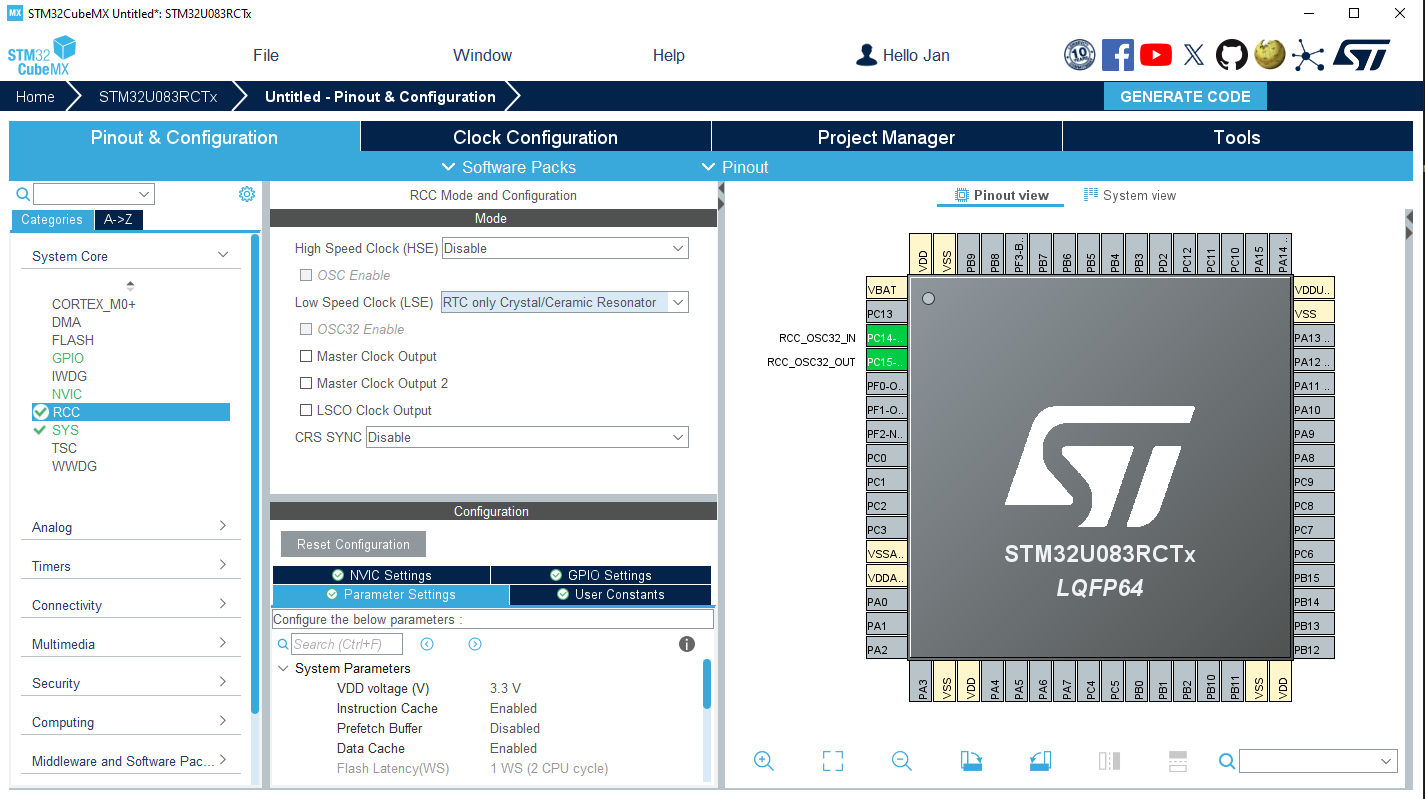
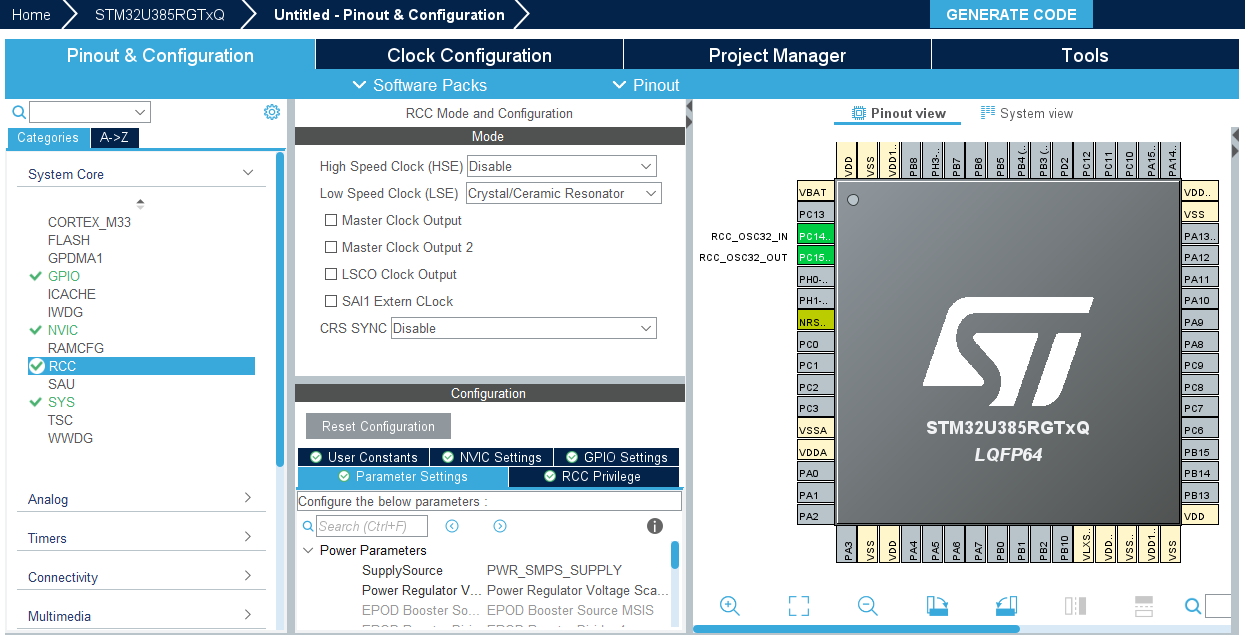
LSE and RTC update

diff --git a/stop3/stop3_intro.md b/stop3/stop3_intro.md
@@ -1,7 +1,7 @@
 # Stop 3 and wake up from RTC
 
-- simple example to understand Stop 3 mode and wake up source from RTC
-- reduce RAM retention to 8kB in SRAM2
+- simple example to understand Stop 3 mode and wake up source from RTC Wakeup timer
+- reduce SRAM2 retention to 8kB in STOP mode
 
 ## Prerequisites
 - Software:
@@ -12,10 +12,10 @@
 - Hardware:
   - 2x **USB-C** cable 
   - **[NUCLEO-U385RG](https://www.st.com/en/evaluation-tools/nucleo-u385rg-q.html)** board 
-  - A-meter or **[STLink-V3PWR](https://www.st.com/en/development-tools/stlink-v3pwr.html)** board 
+  - A-meter or **[STLink-V3PWR](https://www.st.com/en/development-tools/stlink-v3pwr.html)**
 
 - Documentation:
   - STM32U3 **[Reference Manual](https://www.st.com/resource/en/reference_manual/rm0487-stm32u3-series-armbased-32bit-mcus-stmicroelectronics.pdf)** 
   - STM32U3 **[Data Sheet](https://www.st.com/resource/en/datasheet/stm32u385rg.pdf)**
-  - **[Schematic](https://www.st.com/resource/en/schematic_pack/mb1841-u385rgq-e01-schematic.pdf)** NUCLEO-U083RC
+  - **[Schematic](https://www.st.com/resource/en/schematic_pack/mb1841-u385rgq-e01-schematic.pdf)** NUCLEO-U385RG
 

diff --git a/stop3/stop3_cubemx.md b/stop3/stop3_cubemx.md
@@ -27,31 +27,10 @@ To clock RTC and LPUART by external low speed crystal, the LSE must be activated
 
 ![image](./img/RTC.png)
 
-# Low Power UART
-- LPUART1 is connecetd to STlink via PA2/3 pins and acts as Virtual Comport
-
-- Select **LPUART1** instance
-  
-- Configure `Asynchronous mode`
-
-- Remap TX/RX to `PA2/3` *(hold CTRL + left mouse click)*
-
-- `Baudrate` = 9600
-
-- `Enable FIFO mode`
-  - TxFIFO Th. = Empty
-  - RXFIFO Th. = Full
-
-- Enable `USART3 + LPUART1 global interrupt` under NVIC tab
-
-![image](./img/LPUART.png)
-
 # Clock Configuration
-- Change **MSI** to `1 MHz` as `System Clock`
+- Change **MSIS** to `96/2 MHz` as `System Clock`
   
-- Select **LSE** as source for `RTC/LCD` to be able active in down to Stop2 mode
-
-- Select **LSE** as source for `LPUART1`
+- Select **LSE** as source for `RTC` 
 <p> </p>
 
 ![image](./img/clock.png)
@@ -63,5 +42,4 @@ Project is now ready for generation!
 
 - Write project name and `Generate Code`
   
-![image](./img/generate_project.png)
   

diff --git a/spi/spi_intro.md b/spi/spi_intro.md
@@ -19,9 +19,9 @@ perform DMA transfers in Stop 0, Stop 1, and Stop 2 modes. Their interrupts wake
 - Hardware:
   - 2x **USB-C** cable 
   - **[NUCLEO-U385RG](https://www.st.com/en/evaluation-tools/nucleo-u385rg-q.html)** board 
-  - A-meter or **[STLink-V3PWR](https://www.st.com/en/development-tools/stlink-v3pwr.html)** board 
+  - A-meter or **[STLink-V3PWR](https://www.st.com/en/development-tools/stlink-v3pwr.html)**
 
 - Documentation:
   - STM32U3 **[Reference Manual](https://www.st.com/resource/en/reference_manual/rm0487-stm32u3-series-armbased-32bit-mcus-stmicroelectronics.pdf)** 
   - STM32U3 **[Data Sheet](https://www.st.com/resource/en/datasheet/stm32u385rg.pdf)**
-  - **[Schematic](https://www.st.com/resource/en/schematic_pack/mb1841-u385rgq-e01-schematic.pdf)** NUCLEO-U083RC
+  - **[Schematic](https://www.st.com/resource/en/schematic_pack/mb1841-u385rgq-e01-schematic.pdf)** NUCLEO-U385RG

diff --git a/lpuart/lpuart_intro.md b/lpuart/lpuart_intro.md
@@ -24,10 +24,10 @@
 - Hardware:
   - 2x **USB-C** cable 
   - **[NUCLEO-U385RG](https://www.st.com/en/evaluation-tools/nucleo-u385rg-q.html)** board 
-  - A-meter or **[STLink-V3PWR](https://www.st.com/en/development-tools/stlink-v3pwr.html)** board 
+  - A-meter or **[STLink-V3PWR](https://www.st.com/en/development-tools/stlink-v3pwr.html)**
 
 - Documentation:
   - STM32U3 **[Reference Manual](https://www.st.com/resource/en/reference_manual/rm0487-stm32u3-series-armbased-32bit-mcus-stmicroelectronics.pdf)** 
   - STM32U3 **[Data Sheet](https://www.st.com/resource/en/datasheet/stm32u385rg.pdf)**
-  - **[Schematic](https://www.st.com/resource/en/schematic_pack/mb1841-u385rgq-e01-schematic.pdf)** NUCLEO-U083RC
+  - **[Schematic](https://www.st.com/resource/en/schematic_pack/mb1841-u385rgq-e01-schematic.pdf)** NUCLEO-U385RG
 

diff --git a/spi/spi_cubemx.md b/spi/spi_cubemx.md
@@ -92,11 +92,11 @@ To clock RTC and LPUART by external low speed crystal, the LSE must be activated
 DMA Interrupt under **NVIC** instance are enabled by default. It can be kept, however in our example it's not used.
 
 # Clock Configuration
-- Change **MSI** to `1 MHz` as `System Clock`
+- Change **MSIS** to `96/2 MHz` as `System Clock`
   
-- Select **LSE** as source for `RTC/LCD` to be able active in down to Stop2 mode
+- Select **LSE** as source for `RTC` 
 
-- Select **LSE** as source for `LPUART1`
+- Select 3MHz **MSIK/8** as source for `SPI1`
 <p> </p>
 
 ![image](./img/clock.png)

diff --git a/lptim/lptim_intro.md b/lptim/lptim_intro.md
@@ -16,4 +16,4 @@
 - Documentation:
   - STM32U3 **[Reference Manual](https://www.st.com/resource/en/reference_manual/rm0487-stm32u3-series-armbased-32bit-mcus-stmicroelectronics.pdf)** 
   - STM32U3 **[Data Sheet](https://www.st.com/resource/en/datasheet/stm32u385rg.pdf)**
-  - **[Schematic](https://www.st.com/resource/en/schematic_pack/mb1841-u385rgq-e01-schematic.pdf)** NUCLEO-U083RC
+  - **[Schematic](https://www.st.com/resource/en/schematic_pack/mb1841-u385rgq-e01-schematic.pdf)** NUCLEO-U385RG

diff --git a/lpuart/lpuart_cubemx.md b/lpuart/lpuart_cubemx.md
@@ -49,7 +49,7 @@ To clock RTC and LPUART by external low speed crystal, the LSE must be activated
 # Clock Configuration
 - Change **MSIS** to `96/2 MHz` as `System Clock`
   
-- Select **LSE** as source for `RTC/LCD` to be able active in down to Stop2 mode
+- Select **LSE** as source for `RTC` 
 
 - Select 3MHz **MSIK/8** as source for `LPUART1`
 <p> </p>
@@ -63,5 +63,4 @@ Project is now ready for generation!
 
 - Write project name and `Generate Code`
   
-![image](./img/generate_project.png)
   

diff --git a/stop3/stop3_cubeide.md b/stop3/stop3_cubeide.md
@@ -72,6 +72,7 @@ __HAL_PWR_CLEAR_FLAG(PWR_WAKEUP_ALL_FLAG);
 /* Enter STOP 3 mode */
 HAL_PWR_EnterSTOPMode(PWR_LOWPOWERMODE_STOP3, PWR_STOPENTRY_WFI);
 ```
+<p> </p>
 
 ## Debug in STOPx mode
 In case when debug in LP modes is required. Due to fact bus is clocked the internal SysTick must be suspend - 1 ms interrupt would cause exit from Stop mode.

diff --git a/adc/adc_handson_scan.md b/adc/adc_handson_scan.md
@@ -4,10 +4,10 @@ Presentation
 #  Scan ADC
 
 We will create a sequence to convert two channels:
-![image](./img/adc_scan.png)
-<p> </p>
 
-We will add a new channel to our regular sequence.
+![image](./img/adc_scan.png)
+
+<p> </p>
 
 #  CubeMX
 
